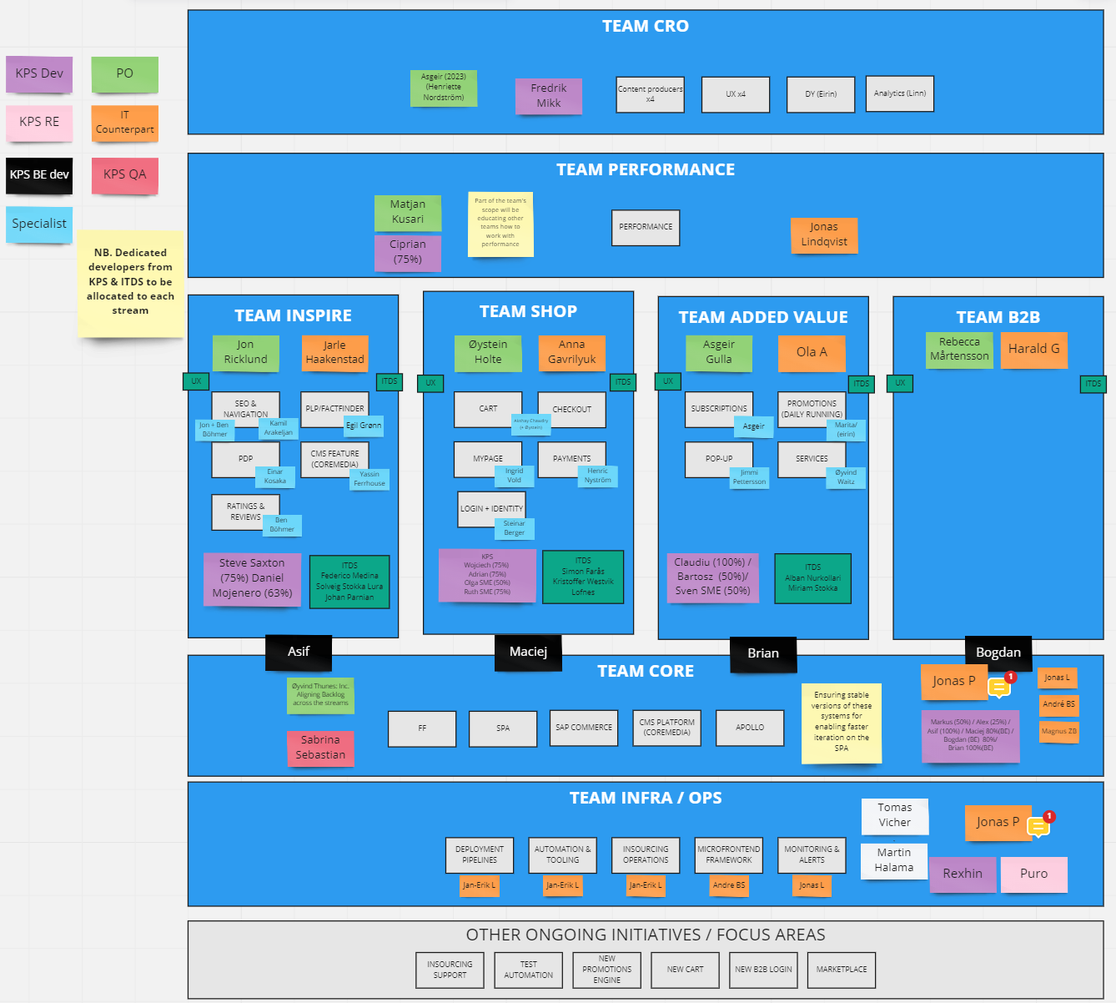
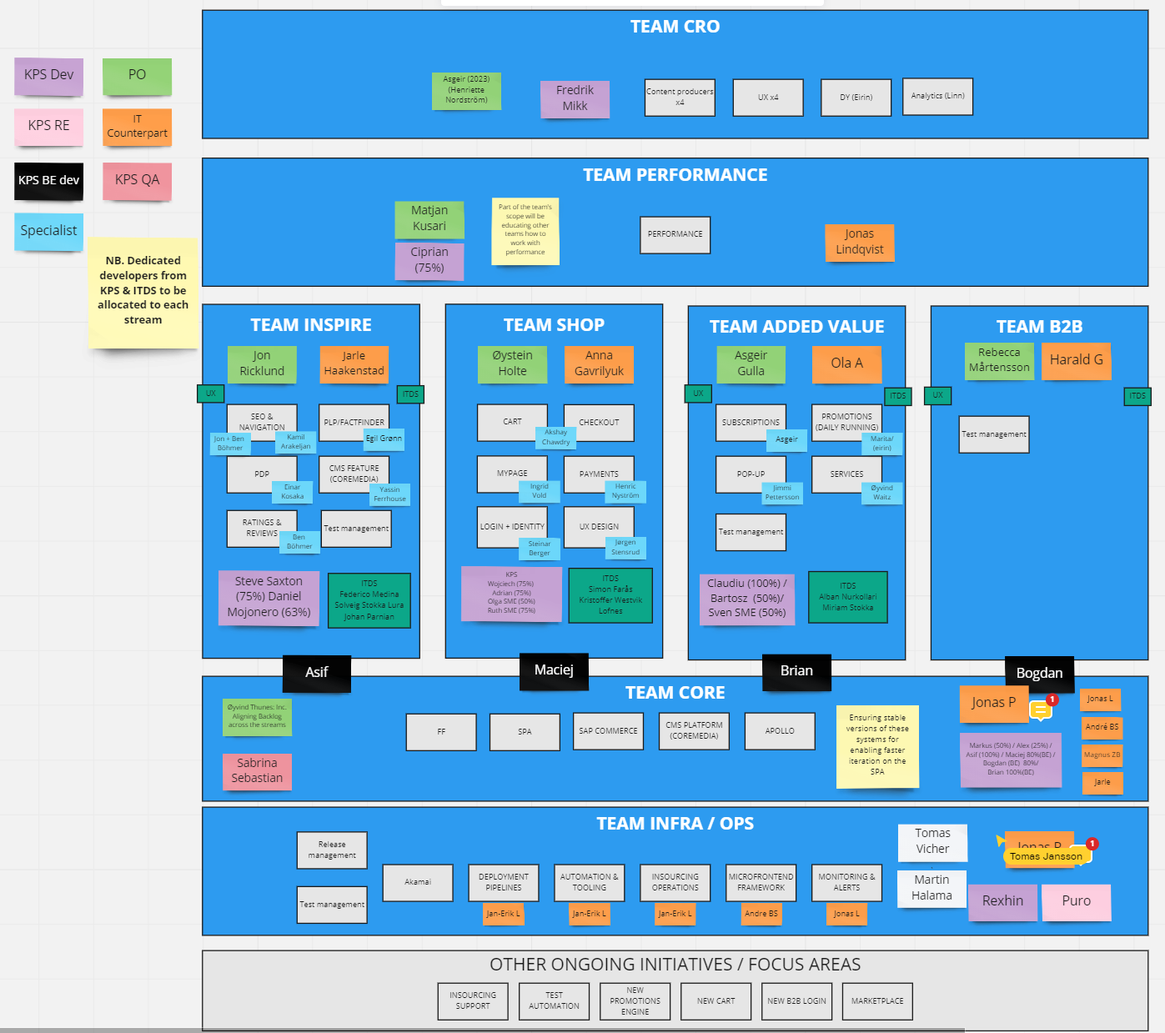
Updated TEAM

diff --git a/files/current/data.js b/files/current/data.js
@@ -2,6 +2,6 @@
 (function() {
     var _ = function() { var r={},a=arguments; for(var i=0; i<a.length; i+=2) r[a[i]]=a[i+1]; return r; }
     var _creator = function() { return _(b,c,d,e,f,g,h,g,i,_(j,k),l,[m],n,_(o,p,q,r,s,t,u,_(),v,_(w,x,y,z,A,_(B,C,D,E),F,null,G,z,H,z,I,J,K,null,L,M,N,O,P,Q,R,M),S,_(),T,_(),U,_(V,[_(W,X,Y,j,Z,ba,q,bb,bc,bb,bd,be,v,_(w,bf,bg,_(bh,bi,bj,bk),bl,_(bm,bn,bo,bp)),S,_(),bq,_(),br,_(bs,bt)),_(W,bu,Y,j,Z,bv,q,bw,bc,bw,bd,be,v,_(bg,_(bh,bx,bj,by),w,bz,bl,_(bm,bA,bo,bB),A,_(B,C,D,bC)),S,_(),bq,_(),bD,g),_(W,bE,Y,j,Z,bv,q,bw,bc,bw,bd,be,v,_(bg,_(bh,bx,bj,bF),w,bz,bl,_(bm,bA,bo,bG),A,_(B,C,D,bC)),S,_(),bq,_(),bD,g),_(W,bH,Y,j,Z,bv,q,bw,bc,bw,bd,be,v,_(w,bI,bg,_(bh,bJ,bj,bK),bL,bM,bN,bO,bl,_(bm,bP,bo,bQ)),S,_(),bq,_(),bD,g),_(W,bR,Y,j,Z,bv,q,bw,bc,bw,bd,be,v,_(bg,_(bh,bx,bj,bS),w,bz,bl,_(bm,bT,bo,bU),A,_(B,C,D,bC)),S,_(),bq,_(),bD,g),_(W,bV,Y,j,Z,bv,q,bw,bc,bw,bd,be,v,_(bg,_(bh,bW,bj,bX),w,bz,bl,_(bm,bA,bo,bY),A,_(B,C,D,bC)),S,_(),bq,_(),bD,g),_(W,bZ,Y,j,Z,bv,q,bw,bc,bw,bd,be,v,_(bl,_(bm,ca,bo,cb),bg,_(bh,cc,bj,cd),w,ce,A,_(B,C,D,cf)),S,_(),bq,_(),bD,g),_(W,cg,Y,j,Z,bv,q,bw,bc,bw,bd,be,v,_(bg,_(bh,ch,bj,ci),w,cj,bl,_(bm,ck,bo,cl),A,_(B,C,D,cm)),S,_(),bq,_(),bD,g),_(W,cn,Y,j,Z,bv,q,bw,bc,bw,bd,be,v,_(w,bI,bg,_(bh,co,bj,bK),bL,bM,bN,bO,bl,_(bm,cp,bo,cq)),S,_(),bq,_(),bD,g),_(W,cr,Y,j,Z,bv,q,bw,bc,bw,bd,be,v,_(cs,_(B,C,D,ct,cu,cv),bl,_(bm,cw,bo,cx),bg,_(bh,cy,bj,cz),w,ce),S,_(),bq,_(),bD,g),_(W,cA,Y,j,Z,bv,q,bw,bc,bw,bd,be,v,_(w,bI,bg,_(bh,cB,bj,bK),bL,bM,bN,bO,bl,_(bm,cC,bo,cD)),S,_(),bq,_(),bD,g),_(W,cE,Y,j,Z,bv,q,bw,bc,bw,bd,be,v,_(w,bI,bg,_(bh,cF,bj,bK),bL,bM,bN,bO,bl,_(bm,cG,bo,cH)),S,_(),bq,_(),bD,g),_(W,cI,Y,j,Z,bv,q,bw,bc,bw,bd,be,v,_(w,bI,bg,_(bh,cJ,bj,bK),bL,bM,bN,bO,bl,_(bm,cK,bo,cL)),S,_(),bq,_(),bD,g),_(W,cM,Y,j,Z,bv,q,bw,bc,bw,bd,be,v,_(cs,_(B,C,D,ct,cu,cv),bl,_(bm,cw,bo,cN),bg,_(bh,cO,bj,cz),w,ce),S,_(),bq,_(),bD,g),_(W,cP,Y,j,Z,bv,q,bw,bc,bw,bd,be,v,_(cs,_(B,C,D,ct,cu,cv),bl,_(bm,cw,bo,cQ),bg,_(bh,cO,bj,cz),w,ce),S,_(),bq,_(),bD,g),_(W,cR,Y,j,Z,bv,q,bw,bc,bw,bd,be,v,_(cs,_(B,C,D,ct,cu,cv),bl,_(bm,cS,bo,cT),bg,_(bh,cU,bj,cz),w,ce),S,_(),bq,_(),bD,g),_(W,cV,Y,j,Z,bv,q,bw,bc,bw,bd,be,v,_(bl,_(bm,cW,bo,cX),bg,_(bh,cY,bj,cZ),w,bI),S,_(),bq,_(),bD,g),_(W,da,Y,j,Z,bv,q,bw,bc,bw,bd,be,v,_(cs,_(B,C,D,ct,cu,cv),bl,_(bm,db,bo,dc),bg,_(bh,cU,bj,dd),w,ce),S,_(),bq,_(),V,[_(W,de,Y,j,Z,df,q,dg,bc,dg,bd,be,v,_(w,dh,di,_(dj,_(w,dk),dl,_(w,dm))),S,_(),bq,_(),T,_(dn,_(dp,dq,dr,[_(dp,ds,dt,g,du,[_(dv,dw,dp,dx,dy,_(dz,dA,dB,_(dC,dD,dE,dF,dG,[]),dH,g),dI,dJ)])])),dK,be)],bD,g),_(W,dL,Y,j,Z,bv,q,bw,bc,bw,bd,be,v,_(cs,_(B,C,D,ct,cu,cv),bl,_(bm,dM,bo,dN),bg,_(bh,dO,bj,cz),w,ce,A,_(B,C,D,dP)),S,_(),bq,_(),bD,g),_(W,dQ,Y,j,Z,bv,q,bw,bc,bw,bd,be,v,_(cs,_(B,C,D,ct,cu,cv),bl,_(bm,dR,bo,dN),bg,_(bh,cy,bj,cz),w,ce),S,_(),bq,_(),bD,g),_(W,dS,Y,j,Z,bv,q,bw,bc,bw,bd,be,v,_(cs,_(B,C,D,ct,cu,cv),bl,_(bm,ca,bo,cT),bg,_(bh,cc,bj,cz),w,ce),S,_(),bq,_(),bD,g),_(W,dT,Y,j,Z,bv,q,bw,bc,bw,bd,be,v,_(cs,_(B,C,D,ct,cu,cv),bl,_(bm,ca,bo,dU),bg,_(bh,cU,bj,cz),w,ce),S,_(),bq,_(),bD,g),_(W,dV,Y,j,Z,bv,q,bw,bc,bw,bd,be,v,_(cs,_(B,C,D,ct,cu,cv),bl,_(bm,dW,bo,cx),bg,_(bh,cU,bj,cz),w,ce),S,_(),bq,_(),bD,g),_(W,dX,Y,j,Z,bv,q,bw,bc,bw,bd,be,v,_(cs,_(B,C,D,ct,cu,cv),bl,_(bm,dM,bo,dY),bg,_(bh,dO,bj,cz),w,ce,A,_(B,C,D,dP)),S,_(),bq,_(),bD,g),_(W,dZ,Y,j,Z,bv,q,bw,bc,bw,bd,be,v,_(cs,_(B,C,D,ct,cu,cv),bl,_(bm,dM,bo,ea),bg,_(bh,dO,bj,cz),w,ce,A,_(B,C,D,dP)),S,_(),bq,_(),bD,g),_(W,eb,Y,j,Z,bv,q,bw,bc,bw,bd,be,v,_(bg,_(bh,cy,bj,cz),w,ec,bl,_(bm,dR,bo,ea)),S,_(),bq,_(),bD,g),_(W,ed,Y,j,Z,bv,q,bw,bc,bw,bd,be,v,_(bg,_(bh,cy,bj,dd),w,ec,bl,_(bm,dR,bo,ee)),S,_(),bq,_(),bD,g),_(W,ef,Y,j,Z,eg,q,eh,bc,eh,bd,be,v,_(bl,_(bm,ei,bo,ej)),S,_(),bq,_(),ek,[_(W,el,Y,j,Z,bv,q,bw,bc,bw,bd,be,v,_(bg,_(bh,em,bj,en),w,bz,bl,_(bm,eo,bo,ep),A,_(B,C,D,eq)),S,_(),bq,_(),br,_(bs,er),bD,g)],es,g),_(W,et,Y,j,Z,bv,q,bw,bc,bw,bd,be,v,_(cs,_(B,C,D,eu,cu,cv),bg,_(bh,ev,bj,ew),w,ex,bl,_(bm,ey,bo,ez),A,_(B,C,D,eA),bN,bO),S,_(),bq,_(),bD,g),_(W,eB,Y,j,Z,bv,q,bw,bc,bw,bd,be,v,_(bg,_(bh,eC,bj,ci),w,cj,bl,_(bm,eD,bo,eE),A,_(B,C,D,eF)),S,_(),bq,_(),br,_(bs,eG),bD,g),_(W,eH,Y,j,Z,bv,q,bw,bc,bw,bd,be,v,_(cs,_(B,C,D,eu,cu,cv),w,bI,bg,_(bh,eI,bj,eJ),bL,eK,bN,bO,bl,_(bm,eL,bo,eM)),S,_(),bq,_(),bD,g),_(W,eN,Y,j,Z,bv,q,bw,bc,bw,bd,be,v,_(eO,eP,cs,_(B,C,D,eu,cu,cv),bg,_(bh,eQ,bj,cd),w,ex,bl,_(bm,eR,bo,eS),A,_(B,C,D,eT),bN,bO),S,_(),bq,_(),bD,g),_(W,eU,Y,j,Z,bv,q,bw,bc,bw,bd,be,v,_(cs,_(B,C,D,ct,cu,cv),bl,_(bm,eV,bo,eW),bg,_(bh,dO,bj,cz),w,ce,A,_(B,C,D,dP)),S,_(),bq,_(),bD,g),_(W,eX,Y,j,Z,bv,q,bw,bc,bw,bd,be,v,_(cs,_(B,C,D,ct,cu,cv),bl,_(bm,eV,bo,eY),bg,_(bh,dO,bj,cz),w,ce,A,_(B,C,D,dP)),S,_(),bq,_(),bD,g),_(W,eZ,Y,j,Z,bv,q,bw,bc,bw,bd,be,v,_(cs,_(B,C,D,ct,cu,cv),bl,_(bm,eV,bo,fa),bg,_(bh,dO,bj,cz),w,ce,A,_(B,C,D,dP)),S,_(),bq,_(),bD,g),_(W,fb,Y,j,Z,eg,q,eh,bc,eh,bd,be,v,_(bl,_(bm,fc,bo,ej)),S,_(),bq,_(),ek,[_(W,fd,Y,j,Z,bv,q,bw,bc,bw,bd,be,v,_(bg,_(bh,fe,bj,en),w,bz,bl,_(bm,ff,bo,fg),A,_(B,C,D,eq)),S,_(),bq,_(),br,_(bs,fh),bD,g)],es,g),_(W,fi,Y,j,Z,bv,q,bw,bc,bw,bd,be,v,_(cs,_(B,C,D,eu,cu,cv),bg,_(bh,ev,bj,ew),w,ex,bl,_(bm,fj,bo,ez),A,_(B,C,D,fk),bN,bO),S,_(),bq,_(),bD,g),_(W,fl,Y,j,Z,bv,q,bw,bc,bw,bd,be,v,_(eO,eP,cs,_(B,C,D,eu,cu,cv),bg,_(bh,eQ,bj,cd),w,ex,bl,_(bm,fm,bo,fn),A,_(B,C,D,eT),bN,bO),S,_(),bq,_(),bD,g),_(W,fo,Y,j,Z,bv,q,bw,bc,bw,bd,be,v,_(cs,_(B,C,D,ct,cu,cv),bl,_(bm,eV,bo,fp),bg,_(bh,dO,bj,cz),w,ce,A,_(B,C,D,dP)),S,_(),bq,_(),bD,g),_(W,fq,Y,j,Z,eg,q,eh,bc,eh,bd,be,v,_(bl,_(bm,fr,bo,fs)),S,_(),bq,_(),ek,[_(W,ft,Y,j,Z,bv,q,bw,bc,bw,bd,be,v,_(bg,_(bh,fe,bj,en),w,bz,bl,_(bm,fu,bo,fv),A,_(B,C,D,eq)),S,_(),bq,_(),br,_(bs,fh),bD,g)],es,g),_(W,fw,Y,j,Z,bv,q,bw,bc,bw,bd,be,v,_(cs,_(B,C,D,eu,cu,cv),bg,_(bh,ev,bj,ew),w,ex,bl,_(bm,fx,bo,ez),A,_(B,C,D,E),bN,bO),S,_(),bq,_(),bD,g),_(W,fy,Y,j,Z,bv,q,bw,bc,bw,bd,be,v,_(eO,eP,cs,_(B,C,D,eu,cu,cv),bg,_(bh,eQ,bj,cd),w,ex,bl,_(bm,fz,bo,fA),A,_(B,C,D,eT),bN,bO),S,_(),bq,_(),bD,g),_(W,fB,Y,j,Z,eg,q,eh,bc,eh,bd,be,v,_(bl,_(bm,fC,bo,fD)),S,_(),bq,_(),ek,[_(W,fE,Y,j,Z,bv,q,bw,bc,bw,bd,be,v,_(bg,_(bh,fF,bj,fG),w,bz,bl,_(bm,fH,bo,ep),A,_(B,C,D,eq)),S,_(),bq,_(),br,_(bs,fI),bD,g)],es,g),_(W,fJ,Y,j,Z,bv,q,bw,bc,bw,bd,be,v,_(eO,eP,cs,_(B,C,D,eu,cu,cv),bg,_(bh,fK,bj,ew),w,ex,bl,_(bm,fL,bo,fM),A,_(B,C,D,E),bN,bO,bL,fN),S,_(),bq,_(),bD,g),_(W,fO,Y,j,Z,bv,q,bw,bc,bw,bd,be,v,_(cs,_(B,C,D,ct,cu,cv),bl,_(bm,fP,bo,fQ),bg,_(bh,cU,bj,fR),w,ce,A,_(B,C,D,dP)),S,_(),bq,_(),bD,g),_(W,fS,Y,j,Z,bv,q,bw,bc,bw,bd,be,v,_(cs,_(B,C,D,ct,cu,cv),bl,_(bm,fP,bo,fT),bg,_(bh,cU,bj,fR),w,ce,A,_(B,C,D,dP)),S,_(),bq,_(),bD,g),_(W,fU,Y,j,Z,bv,q,bw,bc,bw,bd,be,v,_(cs,_(B,C,D,ct,cu,cv),bl,_(bm,fV,bo,fW),bg,_(bh,dO,bj,fR),w,ce,A,_(B,C,D,dP)),S,_(),bq,_(),bD,g),_(W,fX,Y,j,Z,bv,q,bw,bc,bw,bd,be,v,_(cs,_(B,C,D,ct,cu,cv),bl,_(bm,fP,bo,fY),bg,_(bh,cU,bj,fR),w,ce,A,_(B,C,D,dP)),S,_(),bq,_(),bD,g),_(W,fZ,Y,j,Z,bv,q,bw,bc,bw,bd,be,v,_(cs,_(B,C,D,ct,cu,cv),bl,_(bm,fL,bo,ga),bg,_(bh,cU,bj,fR),w,ce,A,_(B,C,D,dP)),S,_(),bq,_(),bD,g),_(W,gb,Y,j,Z,bv,q,bw,bc,bw,bd,be,v,_(cs,_(B,C,D,ct,cu,cv),bl,_(bm,gc,bo,gd),bg,_(bh,dO,bj,fR),w,ce,A,_(B,C,D,dP)),S,_(),bq,_(),bD,g),_(W,ge,Y,j,Z,bv,q,bw,bc,bw,bd,be,v,_(cs,_(B,C,D,ct,cu,cv),bl,_(bm,fV,bo,gf),bg,_(bh,cc,bj,fR),w,ce),S,_(),bq,_(),bD,g),_(W,gg,Y,j,Z,bv,q,bw,bc,bw,bd,be,v,_(cs,_(B,C,D,ct,cu,cv),bl,_(bm,gh,bo,gi),bg,_(bh,dO,bj,fR),w,ce,A,_(B,C,D,dP)),S,_(),bq,_(),bD,g),_(W,gj,Y,j,Z,bv,q,bw,bc,bw,bd,be,v,_(cs,_(B,C,D,ct,cu,cv),bl,_(bm,gh,bo,gk),bg,_(bh,dO,bj,fR),w,ce,A,_(B,C,D,dP)),S,_(),bq,_(),bD,g),_(W,gl,Y,j,Z,bv,q,bw,bc,bw,bd,be,v,_(cs,_(B,C,D,ct,cu,cv),bl,_(bm,gm,bo,fY),bg,_(bh,dO,bj,fR),w,ce,A,_(B,C,D,dP)),S,_(),bq,_(),bD,g),_(W,gn,Y,j,Z,bv,q,bw,bc,bw,bd,be,v,_(cs,_(B,C,D,ct,cu,cv),bl,_(bm,fL,bo,gd),bg,_(bh,dO,bj,fR),w,ce,A,_(B,C,D,dP)),S,_(),bq,_(),bD,g),_(W,go,Y,j,Z,bv,q,bw,bc,bw,bd,be,v,_(cs,_(B,C,D,ct,cu,cv),bl,_(bm,gc,bo,gp),bg,_(bh,dO,bj,fR),w,ce,A,_(B,C,D,dP)),S,_(),bq,_(),bD,g),_(W,gq,Y,j,Z,bv,q,bw,bc,bw,bd,be,v,_(cs,_(B,C,D,ct,cu,cv),bl,_(bm,gm,bo,gr),bg,_(bh,dO,bj,fR),w,ce,A,_(B,C,D,dP)),S,_(),bq,_(),bD,g),_(W,gs,Y,j,Z,bv,q,bw,bc,bw,bd,be,v,_(cs,_(B,C,D,ct,cu,cv),bl,_(bm,gt,bo,gu),bg,_(bh,dO,bj,cz),w,ce,A,_(B,C,D,dP)),S,_(),bq,_(),bD,g),_(W,gv,Y,j,Z,eg,q,eh,bc,eh,bd,be,v,_(bl,_(bm,gw,bo,fs)),S,_(),bq,_(),ek,[_(W,gx,Y,j,Z,bv,q,bw,bc,bw,bd,be,v,_(bg,_(bh,fe,bj,en),w,bz,bl,_(bm,gy,bo,fg),A,_(B,C,D,eq)),S,_(),bq,_(),br,_(bs,fh),bD,g)],es,g),_(W,gz,Y,j,Z,bv,q,bw,bc,bw,bd,be,v,_(cs,_(B,C,D,ct,cu,cv),bl,_(bm,gA,bo,gB),bg,_(bh,dO,bj,cz),w,ce,A,_(B,C,D,dP)),S,_(),bq,_(),bD,g),_(W,gC,Y,j,Z,bv,q,bw,bc,bw,bd,be,v,_(cs,_(B,C,D,ct,cu,cv),bl,_(bm,gD,bo,gE),bg,_(bh,dO,bj,cz),w,ce,A,_(B,C,D,dP)),S,_(),bq,_(),bD,g),_(W,gF,Y,j,Z,bv,q,bw,bc,bw,bd,be,v,_(eO,eP,cs,_(B,C,D,eu,cu,cv),bg,_(bh,eQ,bj,cd),w,ex,bl,_(bm,gG,bo,fn),A,_(B,C,D,eT),bN,bO),S,_(),bq,_(),bD,g),_(W,gH,Y,j,Z,bv,q,bw,bc,bw,bd,be,v,_(cs,_(B,C,D,ct,cu,cv),bl,_(bm,gD,bo,gI),bg,_(bh,dO,bj,cz),w,ce,A,_(B,C,D,dP)),S,_(),bq,_(),bD,g),_(W,gJ,Y,j,Z,bv,q,bw,bc,bw,bd,be,v,_(cs,_(B,C,D,ct,cu,cv),bl,_(bm,gK,bo,gL),bg,_(bh,dO,bj,cz),w,ce,A,_(B,C,D,dP)),S,_(),bq,_(),bD,g),_(W,gM,Y,j,Z,bv,q,bw,bc,bw,bd,be,v,_(cs,_(B,C,D,ct,cu,cv),bl,_(bm,gD,bo,gN),bg,_(bh,dO,bj,cz),w,ce,A,_(B,C,D,dP)),S,_(),bq,_(),bD,g),_(W,gO,Y,j,Z,bv,q,bw,bc,bw,bd,be,v,_(cs,_(B,C,D,ct,cu,cv),bl,_(bm,gD,bo,gP),bg,_(bh,dO,bj,cz),w,ce,A,_(B,C,D,dP)),S,_(),bq,_(),bD,g),_(W,gQ,Y,j,Z,bv,q,bw,bc,bw,bd,be,v,_(cs,_(B,C,D,eu,cu,cv),bg,_(bh,ev,bj,ew),w,ex,bl,_(bm,gR,bo,ez),A,_(B,C,D,gS),bN,bO),S,_(),bq,_(),bD,g),_(W,gT,Y,j,Z,bv,q,bw,bc,bw,bd,be,v,_(cs,_(B,C,D,ct,cu,cv),bl,_(bm,gh,bo,cX),bg,_(bh,dO,bj,fR),w,ce,A,_(B,C,D,dP)),S,_(),bq,_(),bD,g),_(W,gU,Y,j,Z,bv,q,bw,bc,bw,bd,be,v,_(cs,_(B,C,D,ct,cu,cv),bl,_(bm,gt,bo,gV),bg,_(bh,dO,bj,cz),w,ce,A,_(B,C,D,dP)),S,_(),bq,_(),bD,g)])),gW,_(),gX,_(gY,_(gZ,ha),hb,_(gZ,hc),hd,_(gZ,he),hf,_(gZ,hg),hh,_(gZ,hi),hj,_(gZ,hk),hl,_(gZ,hm),hn,_(gZ,ho),hp,_(gZ,hq),hr,_(gZ,hs),ht,_(gZ,hu),hv,_(gZ,hw),hx,_(gZ,hy),hz,_(gZ,hA),hB,_(gZ,hC),hD,_(gZ,hE),hF,_(gZ,hG),hH,_(gZ,hI),hJ,_(gZ,hK),hL,_(gZ,hM),hN,_(gZ,hO),hP,_(gZ,hQ),hR,_(gZ,hS),hT,_(gZ,hU),hV,_(gZ,hW),hX,_(gZ,hY),hZ,_(gZ,ia),ib,_(gZ,ic),id,_(gZ,ie),ig,_(gZ,ih),ii,_(gZ,ij),ik,_(gZ,il),im,_(gZ,io),ip,_(gZ,iq),ir,_(gZ,is),it,_(gZ,iu),iv,_(gZ,iw),ix,_(gZ,iy),iz,_(gZ,iA),iB,_(gZ,iC),iD,_(gZ,iE),iF,_(gZ,iG),iH,_(gZ,iI),iJ,_(gZ,iK),iL,_(gZ,iM),iN,_(gZ,iO),iP,_(gZ,iQ),iR,_(gZ,iS),iT,_(gZ,iU),iV,_(gZ,iW),iX,_(gZ,iY),iZ,_(gZ,ja),jb,_(gZ,jc),jd,_(gZ,je),jf,_(gZ,jg),jh,_(gZ,ji),jj,_(gZ,jk),jl,_(gZ,jm),jn,_(gZ,jo),jp,_(gZ,jq),jr,_(gZ,js),jt,_(gZ,ju),jv,_(gZ,jw),jx,_(gZ,jy),jz,_(gZ,jA),jB,_(gZ,jC),jD,_(gZ,jE),jF,_(gZ,jG),jH,_(gZ,jI),jJ,_(gZ,jK),jL,_(gZ,jM),jN,_(gZ,jO),jP,_(gZ,jQ),jR,_(gZ,jS),jT,_(gZ,jU)));}; 
-var b="url",c="current.html",d="generationDate",e=new Date(1678182828955.5),f="isCanvasEnabled",g=false,h="isAdaptiveEnabled",i="sketchKeys",j="",k="s0",l="variables",m="OnLoadVariable",n="page",o="packageId",p="3332660da237478bb66b3d92c3253411",q="type",r="Axure:Page",s="name",t="Current",u="notes",v="style",w="baseStyle",x="627587b6038d43cca051c114ac41ad32",y="pageAlignment",z="near",A="fill",B="fillType",C="solid",D="color",E=0xFFFFFFFF,F="image",G="imageHorizontalAlignment",H="imageVerticalAlignment",I="imageRepeat",J="auto",K="favicon",L="sketchFactor",M="0",N="colorStyle",O="appliedColor",P="fontName",Q="Applied Font",R="borderWidth",S="adaptiveStyles",T="interactionMap",U="diagram",V="objects",W="id",X="ca4a40e24b9d4181a8221457fac073d8",Y="label",Z="friendlyType",ba="Image",bb="imageBox",bc="styleType",bd="visible",be=true,bf="75a91ee5b9d042cfa01b8d565fe289c0",bg="size",bh="width",bi=2800,bj="height",bk=1138,bl="location",bm="x",bn=97,bo="y",bp=101,bq="imageOverrides",br="images",bs="normal~",bt="images/current/u0.jpg",bu="7d9ffbfa14b74550b8d2464b5bed5709",bv="Rectangle",bw="vectorShape",bx=648,by=207,bz="83a1feee00fa43d192fe3b6efefb68d7",bA=2179,bB=982,bC=0xFFF2F2F2,bD="generateCompound",bE="ca7db9c0a79a4ebc952b5f4dc441d875",bF=212,bG=753,bH="181d8f8cb42c4bc281e0444a744c9fb5",bI="4988d43d80b44008a4a415096f1632af",bJ=91,bK=24,bL="fontSize",bM="20px",bN="horizontalAlignment",bO="center",bP=2447,bQ=767,bR="63717b3d816645ce9131d97fb94c5773",bS=328,bT=2177,bU=402,bV="572d30464932403e96a534b913daef76",bW=646,bX=254,bY=113,bZ="1880b270cf164a278b0d5b88894297d8",ca=2211,cb=448,cc=282,cd=36,ce="40519e9ec4264601bfb12c514e4f4867",cf=0xFFFF9900,cg="1372a0df756543a2ac75013a1086154c",ch=664,ci=58,cj="214c118af3a6484cb9a4b0816c1245e9",ck=2030,cl=-69,cm=0xFF00FFFF,cn="159ec24366a44f768af54f1279928dae",co=57,cp=2324,cq=-52,cr="9748c105352d4bcca5c49dd2a1088688",cs="foreGroundFill",ct=0xFF000000,cu="opacity",cv=1,cw=2522,cx=800,cy=275,cz=37,cA="0a81e61eda354471b07f06fd133f7a9c",cB=31,cC=2473,cD=122,cE="73f401ed7a5e4aa8b3e3410c93a9b30c",cF=285,cG=2330,cH=410,cI="f335ca6598134970923a4706a9274f2c",cJ=87,cK=2457,cL=992,cM="3596e29dcf1e4d81b03e0b1048a7ebb0",cN=491,cO=272,cP="c21fe4d86fcf4c03b18e6a4e7139e571",cQ=444,cR="f26ed963569041b6ae4f7f707eef4565",cS=2516,cT=541,cU=283,cV="6fadb3d8b8b74cba9fd3a4f1f0ebd0b0",cW=2721,cX=563,cY=79,cZ=16,da="7a0a257d73d1409ebf7b1485cab8baeb",db=2511,dc=588,dd=40,de="06f2148fd6de45768fd1742639eeeb15",df="Text Link",dg="hyperlink",dh="2e6beb85ee6a4d068795f484f2d6f09e",di="stateStyles",dj="mouseOver",dk="0fc647c96a4b4817bab08f8d82ad1637",dl="mouseDown",dm="8255e00b8a83491fb20d94cf549dec7c",dn="onClick",dp="description",dq="OnClick",dr="cases",ds="Case 1",dt="isNewIfGroup",du="actions",dv="action",dw="linkWindow",dx="Open https://jira.elkjop.com/browse/ECOM-23749 in New Window/Tab",dy="target",dz="targetType",dA="webUrl",dB="urlLiteral",dC="exprType",dD="stringLiteral",dE="value",dF="https://jira.elkjop.com/browse/ECOM-23749",dG="stos",dH="includeVariables",dI="linkType",dJ="new",dK="tabbable",dL="fa159af45e09454a9100a2c3bafb5b74",dM=2197,dN=166,dO=289,dP=0x7FFFFFFF,dQ="75a02c049e4f41a68e2408c911b5f83e",dR=2506,dS="bc16dbfc3bd64abb8134410caf86b37d",dT="d21717b1521a46b2abd2b48a04fb8a7c",dU=494,dV="9c439138b90442edaa30c03dfdb9ebac",dW=2229,dX="22c45c8e097a45c5a848ab95fcbe24d4",dY=209,dZ="aa22bfd1871f40aa87372080e2a3ff4f",ea=253,eb="6be752c4112649b79a59b09a59fbf8e6",ec="4b7bfc596114427989e10bb0b557d0ce",ed="6f5ca8e8578f43b8861b18ea17e45bbc",ee=208,ef="2dd898fb1c4d406eb44aea4fd8e4cf72",eg="Group",eh="layer",ei=736,ej=203,ek="objs",el="c3ee16b35227463ca1e501e951c943fc",em=337,en=428,eo=131,ep=193,eq=0x7FF2F2F2,er="images/current/u29.png",es="propagate",et="aafe9ef94efe4a7abb9a00e5fc2f568f",eu=0xFF1E1E1E,ev=309,ew=48,ex="31e8887730cc439f871dc77ac74c53b6",ey=144,ez=201,eA=0xFF00FF00,eB="220c726af6bb496a8ee70dfef3c21acf",eC=1341,eD=126,eE=124,eF=0x4CFF99FF,eG="images/current/u31.png",eH="f47d2818db3648b0b29699f2bf558d98",eI=116,eJ=35,eK="30px",eL=738,eM=135,eN="b2dd508c209a4801948798affbbdeb87",eO="fontWeight",eP="700",eQ=299,eR=147,eS=260,eT=0xFFFFCC00,eU="aba480cab3af44f7a5d24f9ad732ab9c",eV=156,eW=304,eX="9ef67aae86ce418ca85a8bec5b158580",eY=347,eZ="fe288142df8948b78be2658cfc1f0e78",fa=389,fb="b3ee5b856929407db895c7d838eb336c",fc=781,fd="2241c6d5c29443aca6397e364291dd2d",fe=321,ff=475,fg=194,fh="images/current/u38.png",fi="d65f1144989f4655ad07f28f778a344f",fj=481,fk=0xFFFFFF33,fl="b2ea14a96eea4a7ebc8219224156fe6f",fm=483,fn=262,fo="eeb9a57e789044a492c69700736b0ea2",fp=432,fq="95ee138c9d74463f8c10c22ddd6bcd4c",fr=1455,fs=204,ft="bdbea786b8af450fadfacf420ebdcbed",fu=1134,fv=195,fw="7c5f2db4ba464593ae603f7d6742cfa0",fx=1141,fy="61b28270906f4a0fb3d4eac8e1ed1d6c",fz=1146,fA=264,fB="14928d6e7a834373b05af12790ed5b53",fC=1784,fD=205,fE="d07bfaa2074548cf971c7a596fc33cd1",fF=649,fG=455,fH=1474,fI="images/current/u47.png",fJ="9a8fccf36b374416bd7d4966ace6fdfd",fK=621,fL=1481,fM=202,fN="16px",fO="1cf0a42934444beeac973c4269895fdc",fP=1484,fQ=422,fR=42,fS="d836a64bed9548f58ed4645224b6b7f4",fT=474,fU="ed9b0fac21634666a0ac85157daf1aa3",fV=1485,fW=527,fX="a5852ba8406243e39eaf6e3eb019de3c",fY=316,fZ="bf6d3d207e5f4be38aa912822a159eb7",ga=369,gb="819456703efc4bb48c172da6ed9eddaf",gc=1800,gd=263,ge="1d6706a9752949fb9e2e3abe09edcc81",gf=577,gg="55165f97e8a04385abeef4e6bc8007d5",gh=1801,gi=364,gj="ce65961f3f764405b1ccc8d66e1711f3",gk=507,gl="55db5fbad50a43eaa13378feb1828b8d",gm=1802,gn="e75eef67cb36436ba10f618595cf5b07",go="4b29e510e399415d88444fbac82bfe6d",gp=460,gq="256dded7c2df44dabdac377845e340eb",gr=412,gs="1ddc3fa0c9f04f2081e11224cacecbb9",gt=488,gu=308,gv="3f20e67805f34964acb0bcdccaec57ae",gw=1125,gx="2b29583298084af3bf7fb7dfff91cb4d",gy=804,gz="267a80a4f947419e8d221d11e9418ecd",gA=818,gB=427,gC="9effff84d3704fcd95c653fb075a0ae3",gD=819,gE=305,gF="3342bdabaeea42a3abac1f3ac6f4461a",gG=814,gH="2f979687a7f84928b13849dc21a38b65",gI=345,gJ="73d5387e6d2e43f9b2cbc4dda8a349c8",gK=1151,gL=310,gM="9bec91c592a94841b9700842301b8178",gN=386,gO="561f8148553e4fdb826b5c533a7db306",gP=468,gQ="6210cfe2624f4e3fa90cf426ac1c1a52",gR=810,gS=0xFF00CCFF,gT="1d7d6a93065b4fd9bf5024a8f5d4e86e",gU="5741c943d9e4419da7510e848463e006",gV=350,gW="masters",gX="objectPaths",gY="ca4a40e24b9d4181a8221457fac073d8",gZ="scriptId",ha="u0",hb="7d9ffbfa14b74550b8d2464b5bed5709",hc="u1",hd="ca7db9c0a79a4ebc952b5f4dc441d875",he="u2",hf="181d8f8cb42c4bc281e0444a744c9fb5",hg="u3",hh="63717b3d816645ce9131d97fb94c5773",hi="u4",hj="572d30464932403e96a534b913daef76",hk="u5",hl="1880b270cf164a278b0d5b88894297d8",hm="u6",hn="1372a0df756543a2ac75013a1086154c",ho="u7",hp="159ec24366a44f768af54f1279928dae",hq="u8",hr="9748c105352d4bcca5c49dd2a1088688",hs="u9",ht="0a81e61eda354471b07f06fd133f7a9c",hu="u10",hv="73f401ed7a5e4aa8b3e3410c93a9b30c",hw="u11",hx="f335ca6598134970923a4706a9274f2c",hy="u12",hz="3596e29dcf1e4d81b03e0b1048a7ebb0",hA="u13",hB="c21fe4d86fcf4c03b18e6a4e7139e571",hC="u14",hD="f26ed963569041b6ae4f7f707eef4565",hE="u15",hF="6fadb3d8b8b74cba9fd3a4f1f0ebd0b0",hG="u16",hH="7a0a257d73d1409ebf7b1485cab8baeb",hI="u17",hJ="06f2148fd6de45768fd1742639eeeb15",hK="u18",hL="fa159af45e09454a9100a2c3bafb5b74",hM="u19",hN="75a02c049e4f41a68e2408c911b5f83e",hO="u20",hP="bc16dbfc3bd64abb8134410caf86b37d",hQ="u21",hR="d21717b1521a46b2abd2b48a04fb8a7c",hS="u22",hT="9c439138b90442edaa30c03dfdb9ebac",hU="u23",hV="22c45c8e097a45c5a848ab95fcbe24d4",hW="u24",hX="aa22bfd1871f40aa87372080e2a3ff4f",hY="u25",hZ="6be752c4112649b79a59b09a59fbf8e6",ia="u26",ib="6f5ca8e8578f43b8861b18ea17e45bbc",ic="u27",id="2dd898fb1c4d406eb44aea4fd8e4cf72",ie="u28",ig="c3ee16b35227463ca1e501e951c943fc",ih="u29",ii="aafe9ef94efe4a7abb9a00e5fc2f568f",ij="u30",ik="220c726af6bb496a8ee70dfef3c21acf",il="u31",im="f47d2818db3648b0b29699f2bf558d98",io="u32",ip="b2dd508c209a4801948798affbbdeb87",iq="u33",ir="aba480cab3af44f7a5d24f9ad732ab9c",is="u34",it="9ef67aae86ce418ca85a8bec5b158580",iu="u35",iv="fe288142df8948b78be2658cfc1f0e78",iw="u36",ix="b3ee5b856929407db895c7d838eb336c",iy="u37",iz="2241c6d5c29443aca6397e364291dd2d",iA="u38",iB="d65f1144989f4655ad07f28f778a344f",iC="u39",iD="b2ea14a96eea4a7ebc8219224156fe6f",iE="u40",iF="eeb9a57e789044a492c69700736b0ea2",iG="u41",iH="95ee138c9d74463f8c10c22ddd6bcd4c",iI="u42",iJ="bdbea786b8af450fadfacf420ebdcbed",iK="u43",iL="7c5f2db4ba464593ae603f7d6742cfa0",iM="u44",iN="61b28270906f4a0fb3d4eac8e1ed1d6c",iO="u45",iP="14928d6e7a834373b05af12790ed5b53",iQ="u46",iR="d07bfaa2074548cf971c7a596fc33cd1",iS="u47",iT="9a8fccf36b374416bd7d4966ace6fdfd",iU="u48",iV="1cf0a42934444beeac973c4269895fdc",iW="u49",iX="d836a64bed9548f58ed4645224b6b7f4",iY="u50",iZ="ed9b0fac21634666a0ac85157daf1aa3",ja="u51",jb="a5852ba8406243e39eaf6e3eb019de3c",jc="u52",jd="bf6d3d207e5f4be38aa912822a159eb7",je="u53",jf="819456703efc4bb48c172da6ed9eddaf",jg="u54",jh="1d6706a9752949fb9e2e3abe09edcc81",ji="u55",jj="55165f97e8a04385abeef4e6bc8007d5",jk="u56",jl="ce65961f3f764405b1ccc8d66e1711f3",jm="u57",jn="55db5fbad50a43eaa13378feb1828b8d",jo="u58",jp="e75eef67cb36436ba10f618595cf5b07",jq="u59",jr="4b29e510e399415d88444fbac82bfe6d",js="u60",jt="256dded7c2df44dabdac377845e340eb",ju="u61",jv="1ddc3fa0c9f04f2081e11224cacecbb9",jw="u62",jx="3f20e67805f34964acb0bcdccaec57ae",jy="u63",jz="2b29583298084af3bf7fb7dfff91cb4d",jA="u64",jB="267a80a4f947419e8d221d11e9418ecd",jC="u65",jD="9effff84d3704fcd95c653fb075a0ae3",jE="u66",jF="3342bdabaeea42a3abac1f3ac6f4461a",jG="u67",jH="2f979687a7f84928b13849dc21a38b65",jI="u68",jJ="73d5387e6d2e43f9b2cbc4dda8a349c8",jK="u69",jL="9bec91c592a94841b9700842301b8178",jM="u70",jN="561f8148553e4fdb826b5c533a7db306",jO="u71",jP="6210cfe2624f4e3fa90cf426ac1c1a52",jQ="u72",jR="1d7d6a93065b4fd9bf5024a8f5d4e86e",jS="u73",jT="5741c943d9e4419da7510e848463e006",jU="u74";
+var b="url",c="current.html",d="generationDate",e=new Date(1678183091321.02),f="isCanvasEnabled",g=false,h="isAdaptiveEnabled",i="sketchKeys",j="",k="s0",l="variables",m="OnLoadVariable",n="page",o="packageId",p="3332660da237478bb66b3d92c3253411",q="type",r="Axure:Page",s="name",t="Current",u="notes",v="style",w="baseStyle",x="627587b6038d43cca051c114ac41ad32",y="pageAlignment",z="near",A="fill",B="fillType",C="solid",D="color",E=0xFFFFFFFF,F="image",G="imageHorizontalAlignment",H="imageVerticalAlignment",I="imageRepeat",J="auto",K="favicon",L="sketchFactor",M="0",N="colorStyle",O="appliedColor",P="fontName",Q="Applied Font",R="borderWidth",S="adaptiveStyles",T="interactionMap",U="diagram",V="objects",W="id",X="ca4a40e24b9d4181a8221457fac073d8",Y="label",Z="friendlyType",ba="Image",bb="imageBox",bc="styleType",bd="visible",be=true,bf="75a91ee5b9d042cfa01b8d565fe289c0",bg="size",bh="width",bi=2800,bj="height",bk=1138,bl="location",bm="x",bn=97,bo="y",bp=101,bq="imageOverrides",br="images",bs="normal~",bt="images/current/u0.jpg",bu="7d9ffbfa14b74550b8d2464b5bed5709",bv="Rectangle",bw="vectorShape",bx=648,by=207,bz="83a1feee00fa43d192fe3b6efefb68d7",bA=2179,bB=982,bC=0xFFF2F2F2,bD="generateCompound",bE="ca7db9c0a79a4ebc952b5f4dc441d875",bF=212,bG=753,bH="181d8f8cb42c4bc281e0444a744c9fb5",bI="4988d43d80b44008a4a415096f1632af",bJ=91,bK=24,bL="fontSize",bM="20px",bN="horizontalAlignment",bO="center",bP=2447,bQ=767,bR="63717b3d816645ce9131d97fb94c5773",bS=328,bT=2177,bU=402,bV="572d30464932403e96a534b913daef76",bW=646,bX=254,bY=113,bZ="1880b270cf164a278b0d5b88894297d8",ca=2211,cb=448,cc=282,cd=36,ce="40519e9ec4264601bfb12c514e4f4867",cf=0xFFFF9900,cg="1372a0df756543a2ac75013a1086154c",ch=664,ci=58,cj="214c118af3a6484cb9a4b0816c1245e9",ck=2030,cl=-69,cm=0xFF00FFFF,cn="159ec24366a44f768af54f1279928dae",co=57,cp=2324,cq=-52,cr="9748c105352d4bcca5c49dd2a1088688",cs="foreGroundFill",ct=0xFF000000,cu="opacity",cv=1,cw=2522,cx=800,cy=275,cz=37,cA="0a81e61eda354471b07f06fd133f7a9c",cB=31,cC=2473,cD=122,cE="73f401ed7a5e4aa8b3e3410c93a9b30c",cF=285,cG=2330,cH=410,cI="f335ca6598134970923a4706a9274f2c",cJ=87,cK=2457,cL=992,cM="3596e29dcf1e4d81b03e0b1048a7ebb0",cN=491,cO=272,cP="c21fe4d86fcf4c03b18e6a4e7139e571",cQ=444,cR="f26ed963569041b6ae4f7f707eef4565",cS=2516,cT=541,cU=283,cV="6fadb3d8b8b74cba9fd3a4f1f0ebd0b0",cW=2721,cX=563,cY=79,cZ=16,da="7a0a257d73d1409ebf7b1485cab8baeb",db=2511,dc=588,dd=40,de="06f2148fd6de45768fd1742639eeeb15",df="Text Link",dg="hyperlink",dh="2e6beb85ee6a4d068795f484f2d6f09e",di="stateStyles",dj="mouseOver",dk="0fc647c96a4b4817bab08f8d82ad1637",dl="mouseDown",dm="8255e00b8a83491fb20d94cf549dec7c",dn="onClick",dp="description",dq="OnClick",dr="cases",ds="Case 1",dt="isNewIfGroup",du="actions",dv="action",dw="linkWindow",dx="Open https://jira.elkjop.com/browse/ECOM-23749 in New Window/Tab",dy="target",dz="targetType",dA="webUrl",dB="urlLiteral",dC="exprType",dD="stringLiteral",dE="value",dF="https://jira.elkjop.com/browse/ECOM-23749",dG="stos",dH="includeVariables",dI="linkType",dJ="new",dK="tabbable",dL="fa159af45e09454a9100a2c3bafb5b74",dM=2197,dN=166,dO=289,dP=0x7FFFFFFF,dQ="75a02c049e4f41a68e2408c911b5f83e",dR=2506,dS="bc16dbfc3bd64abb8134410caf86b37d",dT="d21717b1521a46b2abd2b48a04fb8a7c",dU=494,dV="9c439138b90442edaa30c03dfdb9ebac",dW=2229,dX="22c45c8e097a45c5a848ab95fcbe24d4",dY=209,dZ="aa22bfd1871f40aa87372080e2a3ff4f",ea=253,eb="6be752c4112649b79a59b09a59fbf8e6",ec="4b7bfc596114427989e10bb0b557d0ce",ed="6f5ca8e8578f43b8861b18ea17e45bbc",ee=208,ef="2dd898fb1c4d406eb44aea4fd8e4cf72",eg="Group",eh="layer",ei=736,ej=203,ek="objs",el="c3ee16b35227463ca1e501e951c943fc",em=337,en=428,eo=131,ep=193,eq=0x7FF2F2F2,er="images/current/u29.png",es="propagate",et="aafe9ef94efe4a7abb9a00e5fc2f568f",eu=0xFF1E1E1E,ev=309,ew=48,ex="31e8887730cc439f871dc77ac74c53b6",ey=144,ez=201,eA=0xFF00FF00,eB="220c726af6bb496a8ee70dfef3c21acf",eC=1341,eD=126,eE=124,eF=0x4CFF99FF,eG="images/current/u31.png",eH="f47d2818db3648b0b29699f2bf558d98",eI=116,eJ=35,eK="30px",eL=738,eM=135,eN="b2dd508c209a4801948798affbbdeb87",eO="fontWeight",eP="700",eQ=299,eR=147,eS=260,eT=0xFFFFCC00,eU="aba480cab3af44f7a5d24f9ad732ab9c",eV=156,eW=304,eX="9ef67aae86ce418ca85a8bec5b158580",eY=347,eZ="fe288142df8948b78be2658cfc1f0e78",fa=389,fb="b3ee5b856929407db895c7d838eb336c",fc=781,fd="2241c6d5c29443aca6397e364291dd2d",fe=321,ff=475,fg=194,fh="images/current/u38.png",fi="d65f1144989f4655ad07f28f778a344f",fj=481,fk=0xFFFFFF33,fl="b2ea14a96eea4a7ebc8219224156fe6f",fm=483,fn=262,fo="eeb9a57e789044a492c69700736b0ea2",fp=432,fq="95ee138c9d74463f8c10c22ddd6bcd4c",fr=1455,fs=204,ft="bdbea786b8af450fadfacf420ebdcbed",fu=1134,fv=195,fw="7c5f2db4ba464593ae603f7d6742cfa0",fx=1141,fy="61b28270906f4a0fb3d4eac8e1ed1d6c",fz=1146,fA=264,fB="14928d6e7a834373b05af12790ed5b53",fC=1784,fD=205,fE="d07bfaa2074548cf971c7a596fc33cd1",fF=649,fG=455,fH=1474,fI="images/current/u47.png",fJ="9a8fccf36b374416bd7d4966ace6fdfd",fK=621,fL=1481,fM=202,fN="16px",fO="1cf0a42934444beeac973c4269895fdc",fP=1484,fQ=422,fR=42,fS="d836a64bed9548f58ed4645224b6b7f4",fT=474,fU="ed9b0fac21634666a0ac85157daf1aa3",fV=1485,fW=527,fX="a5852ba8406243e39eaf6e3eb019de3c",fY=316,fZ="bf6d3d207e5f4be38aa912822a159eb7",ga=369,gb="819456703efc4bb48c172da6ed9eddaf",gc=1800,gd=263,ge="1d6706a9752949fb9e2e3abe09edcc81",gf=577,gg="55165f97e8a04385abeef4e6bc8007d5",gh=1801,gi=364,gj="ce65961f3f764405b1ccc8d66e1711f3",gk=507,gl="55db5fbad50a43eaa13378feb1828b8d",gm=1802,gn="e75eef67cb36436ba10f618595cf5b07",go="4b29e510e399415d88444fbac82bfe6d",gp=460,gq="256dded7c2df44dabdac377845e340eb",gr=412,gs="1ddc3fa0c9f04f2081e11224cacecbb9",gt=488,gu=308,gv="3f20e67805f34964acb0bcdccaec57ae",gw=1125,gx="2b29583298084af3bf7fb7dfff91cb4d",gy=804,gz="267a80a4f947419e8d221d11e9418ecd",gA=818,gB=427,gC="9effff84d3704fcd95c653fb075a0ae3",gD=819,gE=305,gF="3342bdabaeea42a3abac1f3ac6f4461a",gG=814,gH="2f979687a7f84928b13849dc21a38b65",gI=345,gJ="73d5387e6d2e43f9b2cbc4dda8a349c8",gK=1151,gL=310,gM="9bec91c592a94841b9700842301b8178",gN=386,gO="561f8148553e4fdb826b5c533a7db306",gP=468,gQ="6210cfe2624f4e3fa90cf426ac1c1a52",gR=810,gS=0xFF00CCFF,gT="1d7d6a93065b4fd9bf5024a8f5d4e86e",gU="5741c943d9e4419da7510e848463e006",gV=350,gW="masters",gX="objectPaths",gY="ca4a40e24b9d4181a8221457fac073d8",gZ="scriptId",ha="u0",hb="7d9ffbfa14b74550b8d2464b5bed5709",hc="u1",hd="ca7db9c0a79a4ebc952b5f4dc441d875",he="u2",hf="181d8f8cb42c4bc281e0444a744c9fb5",hg="u3",hh="63717b3d816645ce9131d97fb94c5773",hi="u4",hj="572d30464932403e96a534b913daef76",hk="u5",hl="1880b270cf164a278b0d5b88894297d8",hm="u6",hn="1372a0df756543a2ac75013a1086154c",ho="u7",hp="159ec24366a44f768af54f1279928dae",hq="u8",hr="9748c105352d4bcca5c49dd2a1088688",hs="u9",ht="0a81e61eda354471b07f06fd133f7a9c",hu="u10",hv="73f401ed7a5e4aa8b3e3410c93a9b30c",hw="u11",hx="f335ca6598134970923a4706a9274f2c",hy="u12",hz="3596e29dcf1e4d81b03e0b1048a7ebb0",hA="u13",hB="c21fe4d86fcf4c03b18e6a4e7139e571",hC="u14",hD="f26ed963569041b6ae4f7f707eef4565",hE="u15",hF="6fadb3d8b8b74cba9fd3a4f1f0ebd0b0",hG="u16",hH="7a0a257d73d1409ebf7b1485cab8baeb",hI="u17",hJ="06f2148fd6de45768fd1742639eeeb15",hK="u18",hL="fa159af45e09454a9100a2c3bafb5b74",hM="u19",hN="75a02c049e4f41a68e2408c911b5f83e",hO="u20",hP="bc16dbfc3bd64abb8134410caf86b37d",hQ="u21",hR="d21717b1521a46b2abd2b48a04fb8a7c",hS="u22",hT="9c439138b90442edaa30c03dfdb9ebac",hU="u23",hV="22c45c8e097a45c5a848ab95fcbe24d4",hW="u24",hX="aa22bfd1871f40aa87372080e2a3ff4f",hY="u25",hZ="6be752c4112649b79a59b09a59fbf8e6",ia="u26",ib="6f5ca8e8578f43b8861b18ea17e45bbc",ic="u27",id="2dd898fb1c4d406eb44aea4fd8e4cf72",ie="u28",ig="c3ee16b35227463ca1e501e951c943fc",ih="u29",ii="aafe9ef94efe4a7abb9a00e5fc2f568f",ij="u30",ik="220c726af6bb496a8ee70dfef3c21acf",il="u31",im="f47d2818db3648b0b29699f2bf558d98",io="u32",ip="b2dd508c209a4801948798affbbdeb87",iq="u33",ir="aba480cab3af44f7a5d24f9ad732ab9c",is="u34",it="9ef67aae86ce418ca85a8bec5b158580",iu="u35",iv="fe288142df8948b78be2658cfc1f0e78",iw="u36",ix="b3ee5b856929407db895c7d838eb336c",iy="u37",iz="2241c6d5c29443aca6397e364291dd2d",iA="u38",iB="d65f1144989f4655ad07f28f778a344f",iC="u39",iD="b2ea14a96eea4a7ebc8219224156fe6f",iE="u40",iF="eeb9a57e789044a492c69700736b0ea2",iG="u41",iH="95ee138c9d74463f8c10c22ddd6bcd4c",iI="u42",iJ="bdbea786b8af450fadfacf420ebdcbed",iK="u43",iL="7c5f2db4ba464593ae603f7d6742cfa0",iM="u44",iN="61b28270906f4a0fb3d4eac8e1ed1d6c",iO="u45",iP="14928d6e7a834373b05af12790ed5b53",iQ="u46",iR="d07bfaa2074548cf971c7a596fc33cd1",iS="u47",iT="9a8fccf36b374416bd7d4966ace6fdfd",iU="u48",iV="1cf0a42934444beeac973c4269895fdc",iW="u49",iX="d836a64bed9548f58ed4645224b6b7f4",iY="u50",iZ="ed9b0fac21634666a0ac85157daf1aa3",ja="u51",jb="a5852ba8406243e39eaf6e3eb019de3c",jc="u52",jd="bf6d3d207e5f4be38aa912822a159eb7",je="u53",jf="819456703efc4bb48c172da6ed9eddaf",jg="u54",jh="1d6706a9752949fb9e2e3abe09edcc81",ji="u55",jj="55165f97e8a04385abeef4e6bc8007d5",jk="u56",jl="ce65961f3f764405b1ccc8d66e1711f3",jm="u57",jn="55db5fbad50a43eaa13378feb1828b8d",jo="u58",jp="e75eef67cb36436ba10f618595cf5b07",jq="u59",jr="4b29e510e399415d88444fbac82bfe6d",js="u60",jt="256dded7c2df44dabdac377845e340eb",ju="u61",jv="1ddc3fa0c9f04f2081e11224cacecbb9",jw="u62",jx="3f20e67805f34964acb0bcdccaec57ae",jy="u63",jz="2b29583298084af3bf7fb7dfff91cb4d",jA="u64",jB="267a80a4f947419e8d221d11e9418ecd",jC="u65",jD="9effff84d3704fcd95c653fb075a0ae3",jE="u66",jF="3342bdabaeea42a3abac1f3ac6f4461a",jG="u67",jH="2f979687a7f84928b13849dc21a38b65",jI="u68",jJ="73d5387e6d2e43f9b2cbc4dda8a349c8",jK="u69",jL="9bec91c592a94841b9700842301b8178",jM="u70",jN="561f8148553e4fdb826b5c533a7db306",jO="u71",jP="6210cfe2624f4e3fa90cf426ac1c1a52",jQ="u72",jR="1d7d6a93065b4fd9bf5024a8f5d4e86e",jS="u73",jT="5741c943d9e4419da7510e848463e006",jU="u74";
 return _creator();
 })());

diff --git a/files/team/data.js b/files/team/data.js
@@ -2,6 +2,6 @@
 (function() {
     var _ = function() { var r={},a=arguments; for(var i=0; i<a.length; i+=2) r[a[i]]=a[i+1]; return r; }
     var _creator = function() { return _(b,c,d,e,f,g,h,g,i,_(j,k),l,[m],n,_(o,p,q,r,s,t,u,_(),v,_(w,x,y,z,A,_(B,C,D,E),F,null,G,z,H,z,I,J,K,null,L,M,N,O,P,Q,R,M),S,_(),T,_(),U,_(V,[_(W,X,Y,j,Z,ba,q,bb,bc,bb,bd,be,v,_(w,bf,bg,_(bh,bi,bj,bk),bl,_(bm,bn,bo,bp)),S,_(),bq,_(),br,_(bs,bt))])),bu,_(),bv,_(bw,_(bx,by)));}; 
-var b="url",c="team.html",d="generationDate",e=new Date(1678182828973.45),f="isCanvasEnabled",g=false,h="isAdaptiveEnabled",i="sketchKeys",j="",k="s0",l="variables",m="OnLoadVariable",n="page",o="packageId",p="40809824ed954b959f502531845eabf3",q="type",r="Axure:Page",s="name",t="TEAM",u="notes",v="style",w="baseStyle",x="627587b6038d43cca051c114ac41ad32",y="pageAlignment",z="near",A="fill",B="fillType",C="solid",D="color",E=0xFFFFFFFF,F="image",G="imageHorizontalAlignment",H="imageVerticalAlignment",I="imageRepeat",J="auto",K="favicon",L="sketchFactor",M="0",N="colorStyle",O="appliedColor",P="fontName",Q="Applied Font",R="borderWidth",S="adaptiveStyles",T="interactionMap",U="diagram",V="objects",W="id",X="ef3065b660d64bec960f8a0d4a2cee4b",Y="label",Z="friendlyType",ba="Image",bb="imageBox",bc="styleType",bd="visible",be=true,bf="75a91ee5b9d042cfa01b8d565fe289c0",bg="size",bh="width",bi=1338,bj="height",bk=1202,bl="location",bm="x",bn=8,bo="y",bp=9,bq="imageOverrides",br="images",bs="normal~",bt="images/team/u75.png",bu="masters",bv="objectPaths",bw="ef3065b660d64bec960f8a0d4a2cee4b",bx="scriptId",by="u75";
+var b="url",c="team.html",d="generationDate",e=new Date(1678183091332.95),f="isCanvasEnabled",g=false,h="isAdaptiveEnabled",i="sketchKeys",j="",k="s0",l="variables",m="OnLoadVariable",n="page",o="packageId",p="40809824ed954b959f502531845eabf3",q="type",r="Axure:Page",s="name",t="TEAM",u="notes",v="style",w="baseStyle",x="627587b6038d43cca051c114ac41ad32",y="pageAlignment",z="near",A="fill",B="fillType",C="solid",D="color",E=0xFFFFFFFF,F="image",G="imageHorizontalAlignment",H="imageVerticalAlignment",I="imageRepeat",J="auto",K="favicon",L="sketchFactor",M="0",N="colorStyle",O="appliedColor",P="fontName",Q="Applied Font",R="borderWidth",S="adaptiveStyles",T="interactionMap",U="diagram",V="objects",W="id",X="f084c94494d44984966b471dc1140bee",Y="label",Z="friendlyType",ba="Image",bb="imageBox",bc="styleType",bd="visible",be=true,bf="75a91ee5b9d042cfa01b8d565fe289c0",bg="size",bh="width",bi=1397,bj="height",bk=1239,bl="location",bm="x",bn=20,bo="y",bp=7,bq="imageOverrides",br="images",bs="normal~",bt="images/team/u75.png",bu="masters",bv="objectPaths",bw="f084c94494d44984966b471dc1140bee",bx="scriptId",by="u75";
 return _creator();
 })());

diff --git a/files/team/styles.css b/files/team/styles.css
@@ -3,7 +3,7 @@
   background-image:none;
   position:static;
   left:auto;
-  width:1346px;
+  width:1417px;
   margin-left:0;
   margin-right:0;
   text-align:left;
@@ -17,16 +17,16 @@
   position:absolute;
   left:0px;
   top:0px;
-  width:1338px;
-  height:1202px;
+  width:1397px;
+  height:1239px;
 }
 #u75 {
   border-width:0px;
   position:absolute;
-  left:8px;
-  top:9px;
-  width:1338px;
-  height:1202px;
+  left:20px;
+  top:7px;
+  width:1397px;
+  height:1239px;
 }
 #u75_text {
   border-width:0px;
